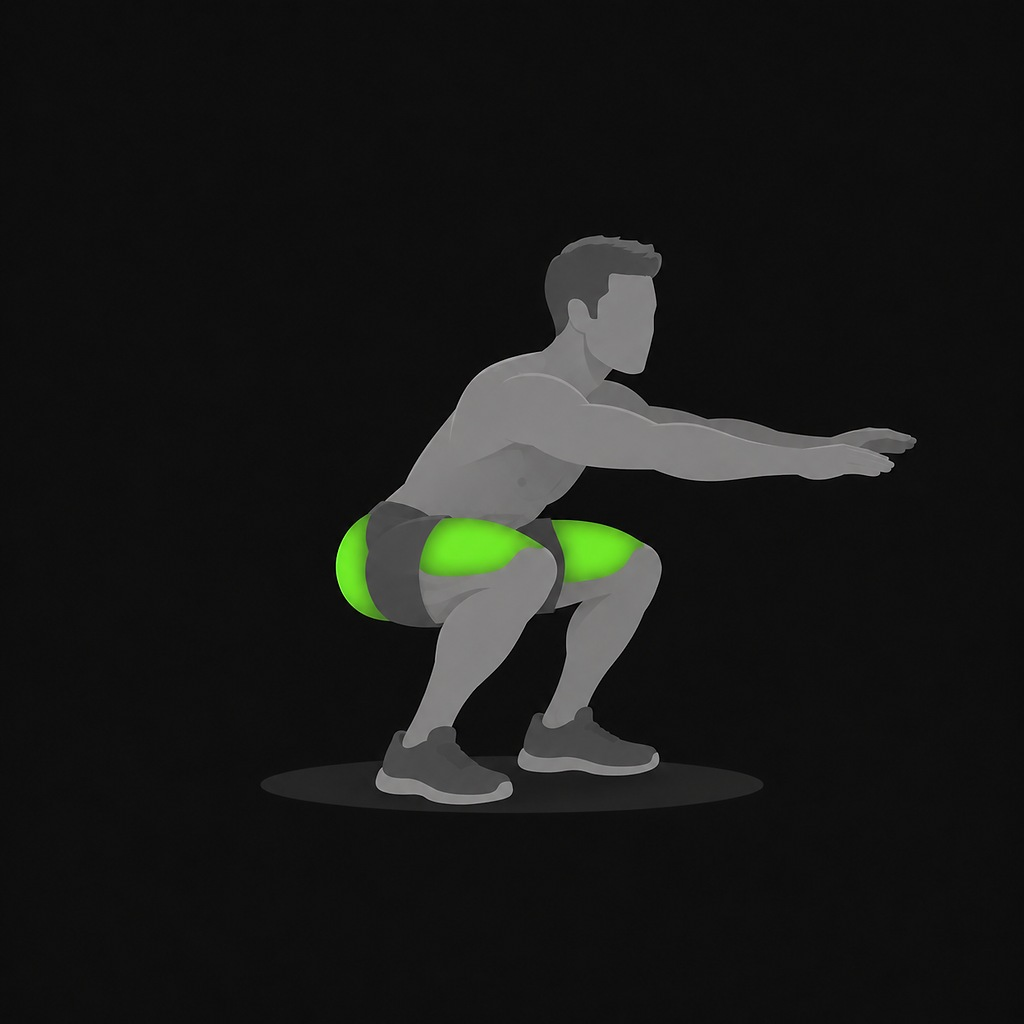
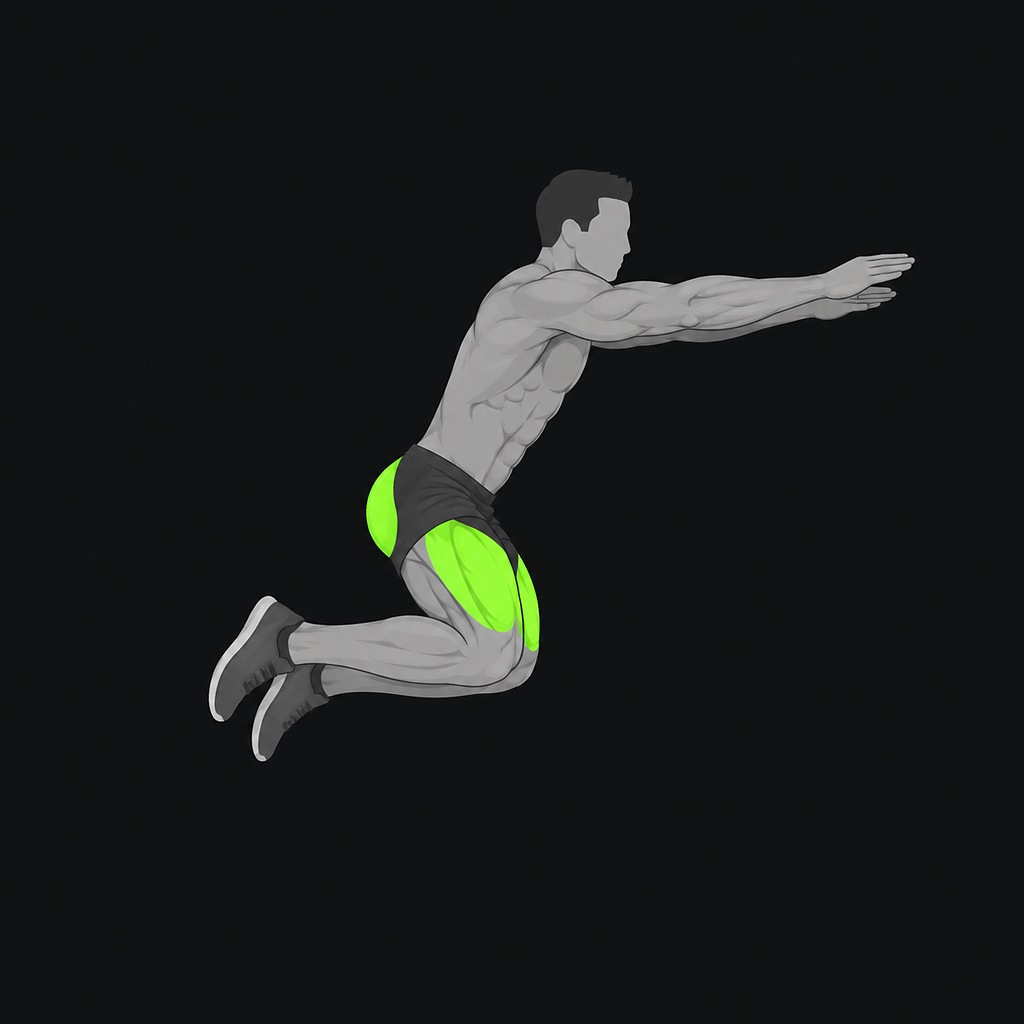
fix(art): fase de salto visible en Burpee Broad Jump + captions de fase para WGS e Inchworm

Changed region(s): [[0.1875, 0.1562, 0.9062, 0.8125]]

diff --git a/Packages/ReperaDomain/Sources/ReperaDomain/CatalogSpanish.swift b/Packages/ReperaDomain/Sources/ReperaDomain/CatalogSpanish.swift
@@ -352,6 +352,24 @@ public enum CatalogSpanish {
             "Repite la secuencia de burpee y salto hasta cubrir los metros prescritos. Comprueba que terminas la distancia señalada sin acortar el movimiento.",
             "Error típico: saltar desde una posición inestable o redondear la espalda al levantarse. Si no dominas el impacto, progresa con burpees y saltos cortos.",
         ],
+        "World's Greatest Stretch": [
+            "Adopta una zancada larga con ambas manos en el suelo enmarcando el pie delantero, la pierna trasera extendida y la cadera baja.",
+            "Manteniendo la zancada, baja el codo del lado delantero hacia el empeine y hunde un poco más la cadera sin despegar el talón.",
+            "Rota el tronco y abre el brazo del lado delantero hacia el techo siguiendo la mano con la mirada; vuelve con control y alterna lados.",
+            "Empieza con una zancada cómoda y amplía el recorrido solo si mantienes la pelvis estable y puedes respirar sin tensión excesiva.",
+            "Inhala para preparar cada cambio de fase y exhala al hundir la cadera o rotar; evita rebotes y movimientos hechos por inercia.",
+            "Error típico: levantar la cadera, rotar el brazo sin mover el tronco o perder el apoyo de las manos. Reduce el rango y prioriza la calidad de cada repetición.",
+            "Progresión: sostén cada fase unas respiraciones antes de rotar. Si hay dolor, hormigueo o mareo, interrumpe el ejercicio.",
+        ],
+        "Inchworm": [
+            "Desde de pie, flexiona el tronco hacia delante y apoya las manos en el suelo con las piernas casi extendidas.",
+            "Camina con las manos hacia delante hasta llegar a una plancha alta con el cuerpo en una sola línea y el abdomen firme.",
+            "Camina con los pies hacia las manos subiendo la cadera y vuelve a levantarte manteniendo las piernas largas.",
+            "Hazlo sobre una superficie estable y ajusta la distancia de las manos para no perder el equilibrio al caminar.",
+            "Inhala al flexionarte y exhala al caminar hacia la plancha; mueve las manos con pasos cortos y controlados, sin tirones.",
+            "Error típico: doblar en exceso las rodillas, dejar caer la cadera en la plancha o caminar con pasos bruscos. Ve más despacio antes que perder la alineación.",
+            "Progresión: empieza con medio recorrido y amplía cuando controles la plancha. Si hay dolor, hormigueo o mareo, interrumpe el ejercicio.",
+        ],
         "Sandbag Lunges": [
             "Colócate erguido con el saco sobre los hombros, activa el abdomen e inicia una zancada hacia delante que te permita mantener el equilibrio y el talón delantero apoyado.",
             "Desciende hasta que la rodilla trasera entre en contacto con el suelo de forma controlada. Mantén la rodilla delantera alineada con el pie.",
